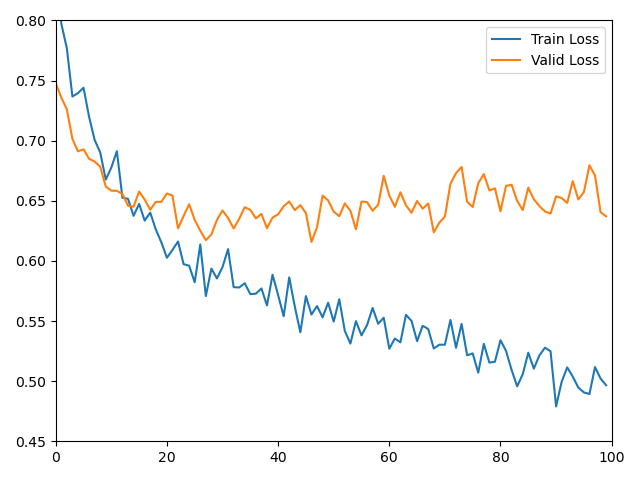
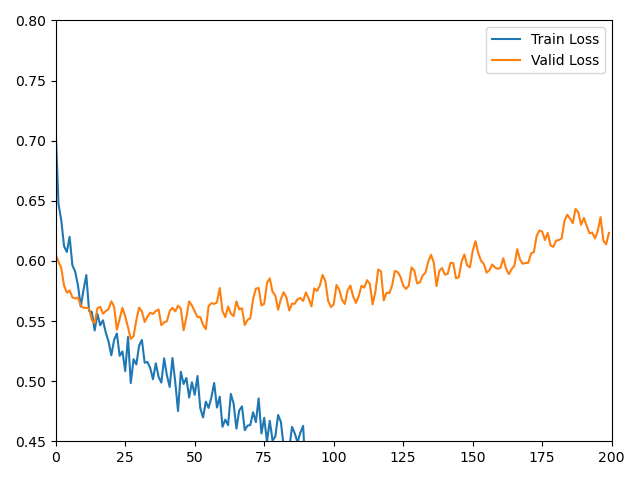
Add simulation to the training loop

diff --git a/src/training.py b/src/training.py
@@ -9,6 +9,7 @@ from torch.utils.tensorboard import SummaryWriter
 from src import create_datasets
 from src.dataset import print_target_distribution
 from src.models.abstract_model import AbstractModel
+import matplotlib.pyplot as plt
 from training_tools import get_criterion, get_optimizer, get_scheduler, train, evaluate, plot_results
 
 
@@ -56,7 +57,7 @@ def train_model(
         # Run training over the batches
         _, train_loss_avg = train(model, train_loader, optimizer, criterion, device, epoch, writer=writer)
         # Evaluate the validation set
-        _, v_loss_avg, v_acc, v_f1, v_pred_dist, v_mcc = evaluate(model, valid_loader, criterion, device=device)
+        _, v_loss_avg, v_acc, v_f1, v_pred_dist, v_mcc, _ = evaluate(model, valid_loader, criterion, device=device)
 
         # Log the progress
         train_losses[epoch] = train_loss_avg
@@ -81,17 +82,40 @@ def train_model(
             f"E: {epoch + 1} | Train: {train_loss_avg:.4f} | Valid: {v_loss_avg:.4f} | V_Pred Dist: {pred_string}")
 
     # Evaluate the test set
-    test_loss, test_loss_avg, test_acc, test_f1, test_pred_dist, test_mcc = evaluate(
+    test_loss, test_loss_avg, test_acc, test_f1, test_pred_dist, test_mcc, sim_df = evaluate(
         model,
         test_loader,
         criterion,
-        device=device
+        device=device,
+        simulate=True
     )
+
     if writer is not None:
         writer.add_scalar("Loss/test", test_loss_avg, epochs)
         writer.add_scalar("Accuracy/test", test_acc, epochs)
         writer.add_scalar("F1/test", test_f1, epochs)
         writer.add_scalar("MCC/test", test_mcc, epochs)
+
+        # sim_df is a 2 column data frame with a time index.
+        if sim_df is not None:
+            fig, ax = plt.subplots()
+            sim_df.plot(
+                ax=ax,
+                y=["value", "price"],
+                label=["Value", f"{model_params['symbol']} Normalized"]
+            )
+            # Add a dashed line at y = 1.0
+            ax.axhline(1.0, color='k', linestyle='--')
+            ax.set_xlabel("Date")
+            ax.set_ylabel("Normalized Value")
+            ax.set_title(f"Portfolio Value and Normalized Price: {model_params["symbol"]}")
+            plt.tight_layout()
+
+            writer.add_figure("Simulation/Results", fig, global_step=epochs)
+            # We can also compute cumulative returns and add that to the tensorboard
+            cum_ret = (sim_df["value"].iloc[-1] - sim_df["value"].iloc[0]) / sim_df["value"].iloc[0]
+            writer.add_scalar("Simulation/Cumulative Return", cum_ret, epochs)
+
 
     return train_losses, valid_losses, test_loss, test_loss_avg, test_acc, test_f1, test_pred_dist, test_mcc
 

diff --git a/src/simulation/_simulation.py b/src/simulation/_simulation.py
@@ -5,7 +5,7 @@ import matplotlib.pyplot as plt
 
 def simulate_trades(
         prices: np.array,
-        trades: np.array,
+        actions: np.array,
         timestamps: np.array,
         cash: float = 10_000,
         commission: float = 10.00,
@@ -15,7 +15,7 @@ def simulate_trades(
     Simulate the given trades with the starting cash balance.
 
     :param prices: The historical prices for the asset being simulated
-    :param trades: The list of trades to make for the given asset
+    :param actions: The list of actions to make for the given asset
     :param timestamps: The index of timestamps related to these trades
     :param cash: The starting balance before any trades are executed
     :param commission: The assumed commission for the trades being executed.
@@ -25,6 +25,7 @@ def simulate_trades(
     """
     # Convert the time stamps to a pandas datetime index
     timestamps = pd.to_datetime(timestamps, unit='s')
+    trades = get_long_short_trades(actions)
 
     # Setup prices for the stock and value of cash
     price_ix = np.ones((prices.shape[0], 2))
@@ -144,8 +145,8 @@ def run():
 
     # Test the trade simulation
     dummy_trades = np.zeros_like(valid.time_idx)
-    dummy_trades[0] = 1  # We just buy on the first day and that's it
-    dummy_trades[10] = -2
+    dummy_trades[0] = 2  # We just buy on the first day and that's it
+    dummy_trades[10] = 0
     results = simulate_trades(
         valid.unscaled_prices.detach().numpy(),
         dummy_trades,

diff --git a/param_search.py b/param_search.py
@@ -8,7 +8,7 @@ from src.training import run_grid_search
 def run_st_grid_search():
     root = os.getcwd()
     t2v_weights = f"t2v_n64_mlp1024_lr6.310e-05"
-    ctx_size = [10]
+    ctx_size = [10, 20]
     d_models = [64]
     batch_sizes = [128]
     l_rates = [1e-5]
@@ -21,11 +21,12 @@ def run_st_grid_search():
     num_heads = [8]
     num_lstm_layers = [2]
     lstm_dim = [256]
+    symbol = "bivi"
 
     # use itertools.product to generate dictionaries of hyperparameters
     search_configs = [
         {
-            "symbol": "atnf",
+            "symbol": symbol,
             "seq_len": ctx,
             "batch_size": bs,
             "trainer_params": {
@@ -33,12 +34,12 @@ def run_st_grid_search():
                 "scheduler": "plateau",
                 "optimizer": "adam",
                 "lr": lr,
-                "epochs": 100,
+                "epochs": 200,
                 "cbf_gamma": 1.0,
-                "cbf_beta": 0.9,
+                "cbf_beta": 0.99,
             },
             "model_params": {
-                "symbol": "atnf",
+                "symbol": symbol,
                 "seq_len": ctx,
                 "d_model": d,
                 "time_idx": [6, 7, 8],
@@ -75,7 +76,7 @@ def run_st_grid_search():
     run_grid_search(
         STTransformer,
         search_configs,
-        trial_prefix="stt_default",
+        trial_prefix=f"stt_default_{symbol}",
         root=root,
         y_lims=(0.45, 0.8),
     )

diff --git a/src/simulation/__init__.py b/src/simulation/__init__.py
@@ -1,1 +1,1 @@
-from ._simulation import get_long_short_trades
+from ._simulation import simulate_trades
